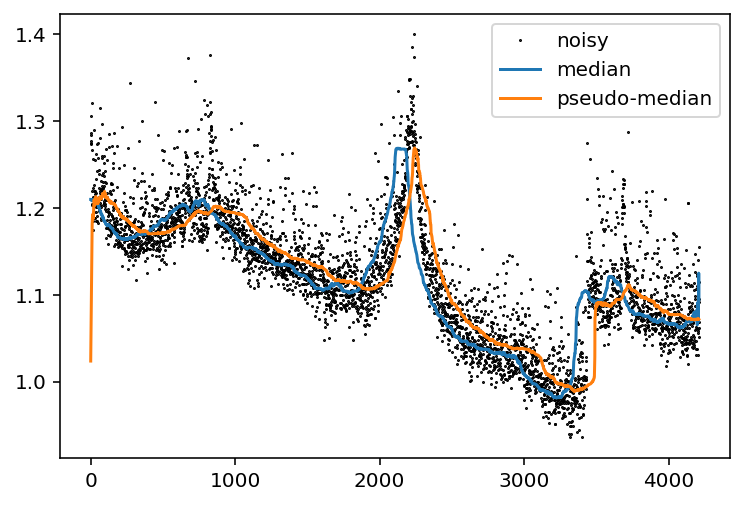
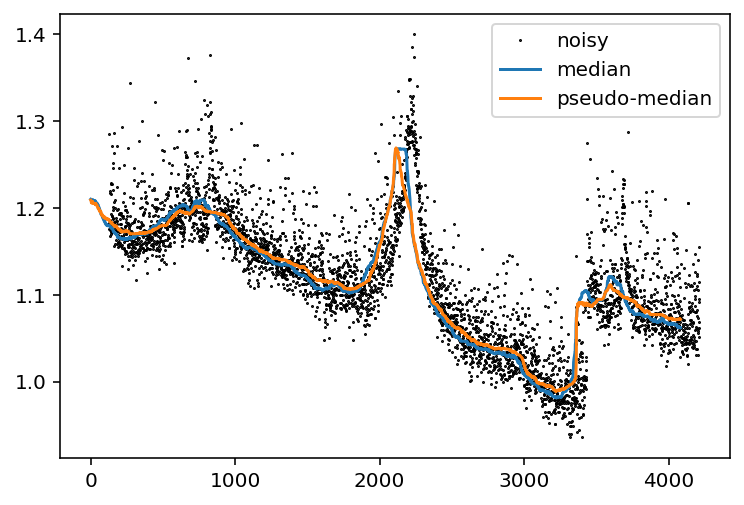
fixed non-causality of classic median

Changed region(s): [[0.1237, 0.2673, 0.9583, 0.802], [0.0927, 0.5941, 0.1237, 0.7129]]

diff --git a/experiment.py b/experiment.py
@@ -46,8 +46,8 @@ def analyze(t,a,b,c):
 
 # %%
 # Brute force solution
-def classic_median(x, mlen=128)
-    return [np.median(b[i:i+mlen]) for i in range(n)]
+def classic_median(x, mlen=128):
+    return [np.median(b[max(i-mlen,0):i+1]) for i in range(n)]
 
 # %%
 
@@ -79,13 +79,13 @@ def compare_noise(amp):
     a = sig.chirp(t, f2,duration, f1, method='log')
     b = a + noise
     mlen = 128
-    c = [np.median(b[i:i+mlen]) for i in range(n)]
+    c = classic_median(b, mlen)
     d = pseudo_median(b, mlen)
     fig, (ax1, ax2) = plt.subplots(2,1, sharex=True)
     plt.title("Comparison of running median")
     ax1.plot(t,b, label='signal with noise')
     ax1.legend()
-    [ax2.plot(t,x) for x in [a,c,d]]
+    [ax2.plot(t[mlen:],x[mlen:]) for x in [a,c,d]]
     ax2.legend(['original', 'median', 'pseudo-median'])
     plt.savefig(f'noise_{amp:0.1f}.png')
 

diff --git a/real_data.py b/real_data.py
@@ -20,7 +20,7 @@ n = b.shape[0]
 
 # Brute force solution
 def classic_median(x, mlen=128):
-    return [np.median(b[i:i+mlen]) for i in range(n)]
+    return [np.median(b[max(i-mlen, 0):i+1]) for i in range(n)]
 
 def pseudo_median(x, mlen=128):
     arr = np.linspace(0,2,mlen)
@@ -47,7 +47,7 @@ d = pseudo_median(b, mlen)
 
 # %%
 
-plt.plot(b, 'k.', label='noisy', markersize=1)
-plt.plot(c, label='median')
-plt.plot(d, label='pseudo-median')
+plt.plot(b[mlen:], 'k.', label='noisy', markersize=1)
+plt.plot(c[mlen:], label='median')
+plt.plot(d[mlen:], label='pseudo-median')
 plt.legend()
